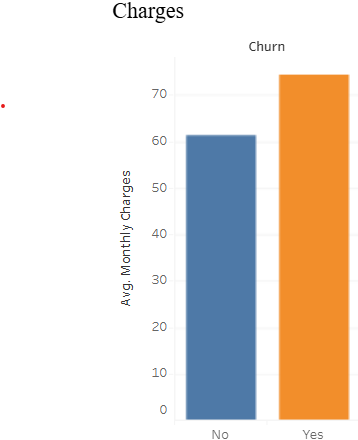
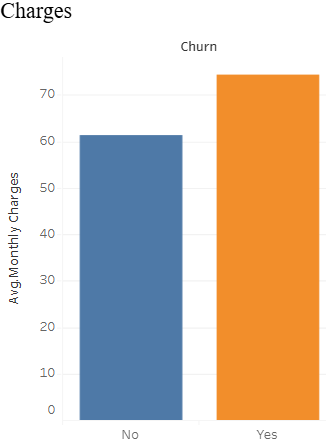
Update to README

diff --git a/README.md b/README.md
@@ -1,2 +1,8 @@
 # Customer-Churn-Analysis
 Predicting customer churn using Python, Pandas, SQL, and Tableau
+
+## Key Takeaways
+![Contract](./Contract.png)
+Customers churn month to month at over 40% while 2 year contract customers churn at a mere 2.8%. This is the biggest churn driver in the dataset. There's no reason for customers without a long-term commitment to stick around. The company should try to encourage month-to-month customers to sign up for longer term contracts, perhaps with incentives or discounts.
+
+![]
